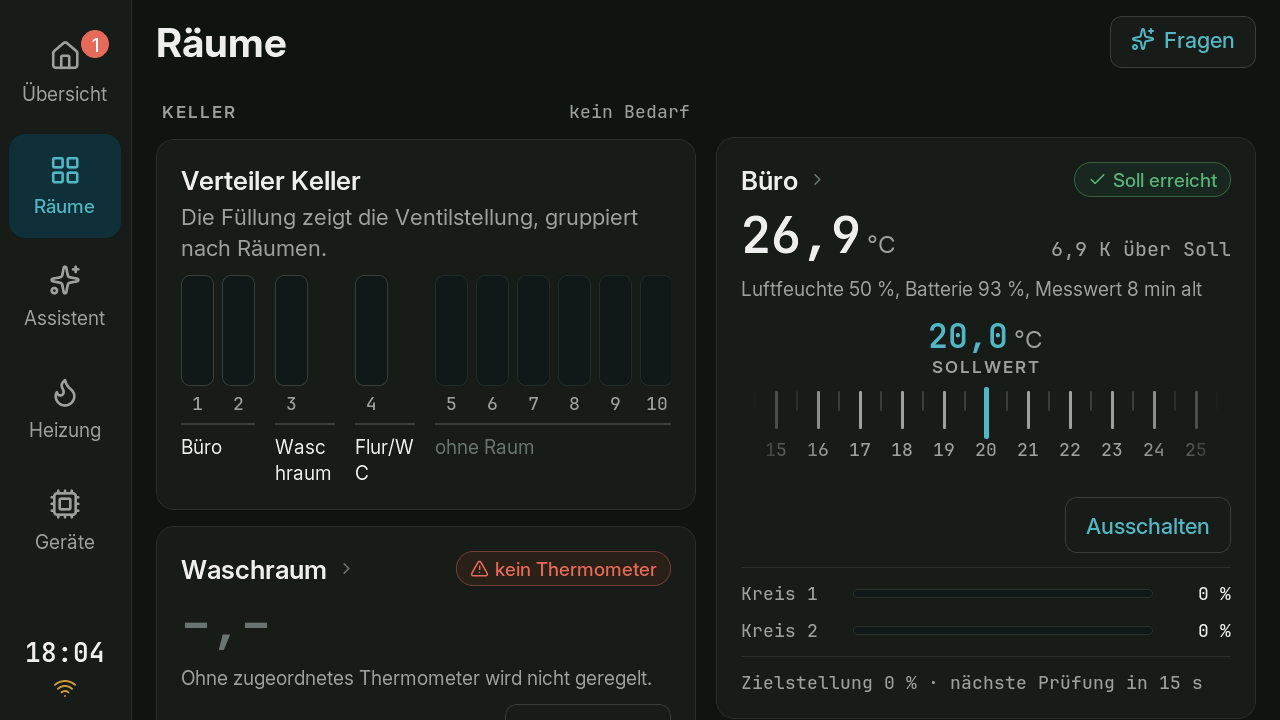
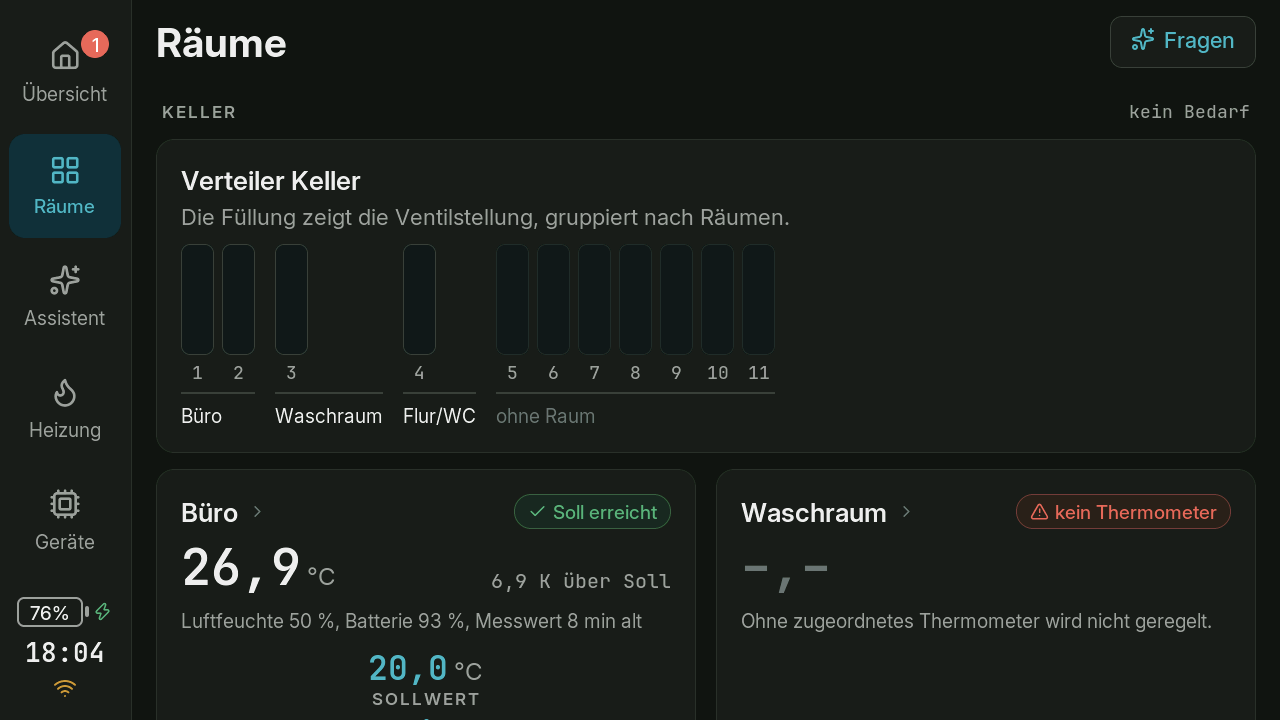
Bedientafel: Raeume als eine scrollende Flaeche
Zwei unabhaengig scrollende Spalten brachten Raumkarten neben Karten
fremder Etagen, die Zuordnung zu den Heizkreisen ging verloren.

- Seite scrollt als Ganzes; je Etage Verteilerbalken ueber volle Breite
- Raumkarten in der Reihenfolge der Heizkreise, zwei je Zeile, gleich hoch,
  unterer Teil auf einer Linie
- Raumnamen im Balken nicht mehr unnoetig gekuerzt
- Zeile bekommt ext draw size, sonst fehlt der Kartenschatten unten
- Vorschau: seite@y nimmt gescrollt auf

diff --git a/apps/tab5/main/ui/raeume.cpp b/apps/tab5/main/ui/raeume.cpp
@@ -1,11 +1,12 @@
 // Räume und Raumdetail — wie apple/App/Ansichten/Raeume/RaeumeAnsicht.swift.
 //
-// Räume: je Etage ein Abschnitt, zweispaltig mit dem Verteilerbalken als erster Zelle, dann
-// die Raumkarten mit Stellrad. Raum: links Messung und Bedienung, Kennzahlen; rechts
+// Räume: eine gemeinsam scrollende Fläche; je Etage ein Abschnitt, der Verteilerbalken über
+// die volle Breite und darunter die Raumkarten mit Stellrad, zwei je Zeile. Raum: links Messung und Bedienung, Kennzahlen; rechts
 // Ventile und Verlauf.
 #include <math.h>
 #include <stdlib.h>
 #include <algorithm>
+#include <vector>
 #include "daten.h"
 #include "fmt.h"
 #include "seite.h"
@@ -73,14 +74,18 @@ void verteilerbalken(lv_obj_t *c, const anlage::Etage &e)
         lv_obj_set_style_bg_color(strich, p.linie_stark, 0);
         lv_obj_set_style_bg_opa(strich, LV_OPA_COVER, 0);
         lv_obj_t *n = text(g, raum.empty() ? "ohne Raum" : raum, &f_cap, raum.empty() ? p.blass : p.tinte);
-        lv_obj_set_width(n, std::max(60, (int)(j - i) * 41 - 8));
+        // Mindestens so breit wie die Säulen; kurze Namen ganz, lange gekürzt
+        lv_obj_set_width(n, LV_SIZE_CONTENT);
+        lv_obj_set_style_min_width(n, (int)(j - i) * 41 - 8, 0);
+        lv_obj_set_style_max_width(n, 220, 0);
         lv_label_set_long_mode(n, LV_LABEL_LONG_MODE_DOTS);
         lv_obj_set_height(n, f_cap.line_height);   // ⚠ Pünktchen nur mit fester Höhe, sonst bricht es um
         i = j;
     }
 }
 
-lv_obj_t *raumkarte(lv_obj_t *c, const anlage::Raum &r, const anlage::Etage &e)
+// `unten`: Zeile mit dem Schaltknopf; ab ihr rückt der Rest nach unten, wenn die Karte höher gezogen wird.
+lv_obj_t *raumkarte(lv_obj_t *c, const anlage::Raum &r, const anlage::Etage &e, lv_obj_t **unten)
 {
     const Palette &p = pal();
     lv_obj_t *k = karte(c);
@@ -112,6 +117,7 @@ lv_obj_t *raumkarte(lv_obj_t *c, const anlage::Raum &r, const anlage::Etage &e)
         text_umbruch(k, "Ohne zugeordnetes Thermometer wird nicht geregelt.", &f_cap, p.gedaempft);
     }
     lv_obj_t *zk = zeile_neu(k, 10);
+    *unten = zk;
     dehnung(zk);
     bool an = r.an;
     knopf(zk, an ? "Ausschalten" : "Einschalten", false, [id, an] { daten::betriebsart(id, !an); });
@@ -145,46 +151,67 @@ void raeume_aufbauen(lv_obj_t *inhalt)
     auto b = daten::bild();
     s_nb_raeume.merken(inhalt, anzeige_generation());
     kopf_knopf("sparkles", "Fragen", [] { fragen("Räume"); });
-    Spalten sp = doppelseite(inhalt);
+    // ⚠ Eine Fläche, die als Ganzes scrollt — nicht die Doppelseite. Mit zwei unabhängig
+    // scrollenden Spalten standen Raumkarten neben Karten einer anderen Etage, und der
+    // Verteilerbalken lief aus dem Blick (Rückmeldung Ruben, 11.11.2026).
+    Spalten sp = doppelseite(inhalt, false);
     s_nb_raeume.spalten(sp);
+    lv_obj_t *c = sp.links;
+    struct Karte { lv_obj_t *k, *unten; };
+    std::vector<std::pair<Karte, Karte>> paare;
     bool etwas = false;
     for (const auto &e : b->etagen) {
         if (e.nur_aussen && e.raeume.empty()) continue;
         etwas = true;
-        // Abschnitt über beide Spalten; rechts ein leerer gleicher Höhe, damit beide auf einer Linie beginnen
-        abschnitt(sp.links, e.name, e.bedarf ? "Wärmebedarf" : "kein Bedarf");
-        abschnitt(sp.rechts, " ", "");
+        abschnitt(c, e.name, e.bedarf ? "Wärmebedarf" : "kein Bedarf");
         if (e.raeume.empty()) {
-            text_umbruch(sp.links,
-                         "Noch kein Raum eingerichtet. Räume legen Sie in der Weboberfläche des Verteilers unter Räume an.",
+            text_umbruch(c, "Noch kein Raum eingerichtet. Räume legen Sie in der Weboberfläche des Verteilers unter Räume an.",
                          &f_sub, pal().gedaempft);
             continue;
         }
-        // Verteilerbalken als erste Zelle, dann die Raumkarten abwechselnd
-        verteilerbalken(sp.links, e);
-        int n = 1;
-        for (const auto &r : e.raeume) raumkarte(n++ % 2 ? sp.rechts : sp.links, r, e);
-        // Spalten auf gleiche Höhe bringen, damit die nächste Etage auf einer Linie beginnt
-        lv_obj_update_layout(sp.links);
-        lv_obj_update_layout(sp.rechts);
-        auto hoehe = [](lv_obj_t *s) {
-            int h = 0;
-            for (uint32_t i = 0; i < lv_obj_get_child_count(s); i++) {
-                lv_obj_t *c = lv_obj_get_child(s, (int32_t)i);
-                h = std::max(h, (int)(lv_obj_get_y(c) + lv_obj_get_height(c)));
-            }
-            return h;
+        // Verteilerbalken über die volle Breite, darunter die Räume der Etage paarweise
+        verteilerbalken(c, e);
+        // Räume in der Reihenfolge ihrer Heizkreise, wie im Verteilerbalken darüber
+        std::vector<const anlage::Raum *> rs;
+        for (const auto &r : e.raeume) rs.push_back(&r);
+        auto erster = [](const anlage::Raum *r) {
+            return r->kanaele.empty() ? 1000 : *std::min_element(r->kanaele.begin(), r->kanaele.end());
         };
-        int hl2 = hoehe(sp.links), hr2 = hoehe(sp.rechts);
-        lv_obj_t *kurz = hl2 < hr2 ? sp.links : sp.rechts;
-        int diff = abs(hl2 - hr2) - ABSTAND;
-        if (diff > 0) {
-            lv_obj_t *f = flaeche(kurz);
-            lv_obj_set_size(f, 1, diff);
+        std::stable_sort(rs.begin(), rs.end(), [&](auto a, auto b) { return erster(a) < erster(b); });
+        for (size_t i = 0; i < rs.size(); i += 2) {
+            lv_obj_t *z = zeile_neu(c, FUGE, LV_FLEX_ALIGN_START);
+            // ⚠ Kinder werden auf die Zeile beschnitten (lv_obj_redraw: Fläche + ext draw size);
+            // ohne den Zuschlag fehlt der Schatten der Karten unten (hell, 18 px + 8 px Versatz).
+            lv_obj_set_overflow_visible(z, true);
+            lv_obj_add_event_cb(z, [](lv_event_t *ev) { lv_event_set_ext_draw_size(ev, 28); }, LV_EVENT_REFR_EXT_DRAW_SIZE, nullptr);
+            lv_obj_refresh_ext_draw_size(z);
+            Karte l{}, r{};
+            l.k = raumkarte(z, *rs[i], e, &l.unten);
+            lv_obj_set_width(l.k, SPALTE_B);
+            if (i + 1 < rs.size()) {
+                r.k = raumkarte(z, *rs[i + 1], e, &r.unten);
+                lv_obj_set_width(r.k, SPALTE_B);
+            }
+            paare.push_back({l, r});
         }
     }
     if (!etwas)
-        leer_hinweis(sp.links, "square.grid.2x2", "Kein Verteiler gefunden", "Verteiler im Heimnetz erscheinen hier von selbst.");
+        leer_hinweis(c, "square.grid.2x2", "Kein Verteiler gefunden", "Verteiler im Heimnetz erscheinen hier von selbst.");
+    // Karten einer Zeile auf gleiche Höhe, damit die Zeilen als Raster lesbar bleiben
+    if (!paare.empty()) {
+        lv_obj_update_layout(c);
+        for (auto &[l, r] : paare) {
+            if (!r.k) continue;
+            int hl = lv_obj_get_height(l.k), hr = lv_obj_get_height(r.k);
+            if (hl == hr) continue;
+            // Die kürzere Karte wächst; ihr unterer Teil (Knopf, Kreise, Fuß) rückt nach unten,
+            // damit beide Karten unten auf einer Linie enden
+            Karte &kurz = hl < hr ? l : r;
+            lv_obj_t *d = dehnung(kurz.k);
+            lv_obj_move_to_index(d, lv_obj_get_index(kurz.unten));
+            lv_obj_set_height(kurz.k, std::max(hl, hr));
+        }
+    }
     s_nb_raeume.wiederherstellen();
 }
 

diff --git a/apps/tab5/host/vorschau.cpp b/apps/tab5/host/vorschau.cpp
@@ -2,10 +2,11 @@
 // legt sie als PNG ab — ohne Fenster, ohne Gerät.
 //
 //   host/vorschau.sh                       alle Seiten, hell und dunkel → host/shots/
-//   host/build/vorschau <beispiel.json> <ziel> [hell] seite…
+//   host/build/vorschau <beispiel.json> <ziel> [hell] seite[@y]…   (@y: um y Pixel gescrollt)
 //
 // Die Seiten laufen mit der Beispielanlage (host/plattform.cpp).
 #include <stdio.h>
+#include <stdlib.h>
 #include <string.h>
 #include <zlib.h>
 #include <chrono>
@@ -68,6 +69,17 @@ static void png_schreiben(const std::string &pfad)
     fclose(f);
 }
 
+// Erste senkrecht scrollende Fläche unter `o` (für `seite@y` in der Vorschau)
+static lv_obj_t *bildlauf(lv_obj_t *o)
+{
+    for (uint32_t i = 0; i < lv_obj_get_child_count(o); i++) {
+        lv_obj_t *c = lv_obj_get_child(o, (int32_t)i);
+        if (lv_obj_get_scroll_dir(c) == LV_DIR_VER && lv_obj_get_scroll_bottom(c) > 0) return c;
+        if (lv_obj_t *t = bildlauf(c)) return t;
+    }
+    return nullptr;
+}
+
 static void laufen(int ms)
 {
     for (int t = 0; t < ms; t += 10) {
@@ -118,12 +130,24 @@ int main(int argc, char **argv)
         return 0;
     }
     for (; i < argc; i++) {
+        // `seite@y`: Seite um y Pixel gescrollt
         std::string name = argv[i];
+        int y = 0;
+        if (size_t at = name.find('@'); at != std::string::npos) {
+            y = atoi(name.c_str() + at + 1);
+            name.resize(at);
+        }
         if (!ui::seite_nach_name(name)) {
             fprintf(stderr, "unbekannte Seite: %s\n", name.c_str());
             continue;
         }
         laufen(400);
+        if (y) {
+            lv_obj_update_layout(lv_screen_active());
+            if (lv_obj_t *b = bildlauf(lv_screen_active())) lv_obj_scroll_to_y(b, y, LV_ANIM_OFF);
+            laufen(50);
+            name = std::string(argv[i]);
+        }
         lv_refr_now(d);
         std::string datei = name;
         for (char &c : datei)

diff --git a/apps/tab5/README.md b/apps/tab5/README.md
@@ -14,7 +14,7 @@ die dort Zeit gekostet haben, sind an den betreffenden Stellen im Quelltext verm
 | Bereich | Umfang | Vorlage in der App |
 |---|---|---|
 | Übersicht | Geräteleiste, Beispielanlage, Lagebericht mit Hinweisen, Wärmeerzeugung, drei schwerste Befunde, Räume als Kacheln je Etage; Befunde und Befund als Unterseite | `UebersichtAnsicht.swift` |
-| Räume | je Etage Verteilerbalken und Raumkarten mit Stellrad und Ein/Aus; Raumdetail mit Messung, Stellrad, „Jetzt prüfen“, Kennzahlen, Ventilen und Verlauf (24 Std., 7 Tage) | `RaeumeAnsicht.swift`, `Stellrad.swift` |
+| Räume | eine gemeinsam scrollende Fläche: je Etage Verteilerbalken über die volle Breite, darunter Raumkarten in der Reihenfolge der Heizkreise, zwei je Zeile, mit Stellrad und Ein/Aus; Raumdetail mit Messung, Stellrad, „Jetzt prüfen“, Kennzahlen, Ventilen und Verlauf (24 Std., 7 Tage) | `RaeumeAnsicht.swift`, `Stellrad.swift` |
 | Heizung | Anlagenschema (Querfassung) über die volle Breite, Pufferspeicher, Brenner, Heizkreise und Kesselkreispumpe mit Betriebsart, Verlauf (6 Std. bis 7 Tage) | `HeizungAnsicht.swift`, `Anlagenschema.swift`, `VerlaufAnsichten.swift` |
 | Geräte | Liste und gewähltes Gerät: Zustand, Kanäle bzw. Fühler am Bus, „Alle auf/zu/an die Regelung“, Neustart; WLAN; Einstellungen der Tafel | `GeraeteAnsicht.swift` |
 | Assistent | Gespräch mit Werkzeugen, Überlegung und Werkzeugzeilen zum Aufklappen, Vorschlagskarten mit Übernehmen, Verwerfen und Rückgängig, Bezug aus „Fragen“, Lagebericht von selbst (höchstens alle sechs Stunden), frühere Lageberichte | `AssistentAnsicht.swift`, Packages `Assistent`, `Sprachmodelle` |

diff --git a/docs/handbuch.md b/docs/handbuch.md
@@ -1248,8 +1248,9 @@ die Anzeige dunkler wird.
 und die Räume je Etage. Ein Tipp auf eine Kachel öffnet den Raum, ein Tipp auf einen Befund seine
 Beschreibung.
 
-**Räume.** Je Etage zeigt der Verteilerbalken die Ventilstellungen, die Raumkarten darunter Ist-Wert
-und Zustand. Den Sollwert stellt das Stellrad in Schritten von 0,5 K zwischen 5 und 35 °C: Die Skala
+**Räume.** Die Seite scrollt als Ganzes. Je Etage zeigt der Verteilerbalken über die volle Breite die
+Ventilstellungen, nach Räumen gruppiert. Darunter folgen die Raumkarten mit Ist-Wert, Zustand und
+den Stellungen ihrer Heizkreise, zwei je Zeile und in der Reihenfolge der Heizkreise am Verteiler. Den Sollwert stellt das Stellrad in Schritten von 0,5 K zwischen 5 und 35 °C: Die Skala
 wird waagerecht gewischt, die Nadel in der Mitte zeigt den Wert. Gesendet wird er, sobald das Rad
 900 ms steht. Danach liest die Tafel den Zustand zurück und meldet, wenn das Gerät den Wert nicht
 übernommen hat.

diff --git a/CHANGELOG.md b/CHANGELOG.md
@@ -21,6 +21,9 @@ Die veröffentlichten Fassungen stehen mit Abbildern unter
   Einschalten nicht in jedem Fall auf; die Tafel erkennt das nach 10 s ohne Ladestrom und schaltet
   das Laden erneut ein. Die Leitungen des Ladegeräts am Portexpander sind wie in der Bibliothek von
   M5Stack eingerichtet (Ladestrom 500 mA).
+- **Bedientafel: Räume als eine Fläche.** Die Seite scrollt als Ganzes statt in zwei unabhängigen
+  Spalten. Je Etage steht der Verteilerbalken über die volle Breite, darunter die Raumkarten in der
+  Reihenfolge der Heizkreise, zwei je Zeile und gleich hoch.
 
 ### Heizungsgeräte
 
